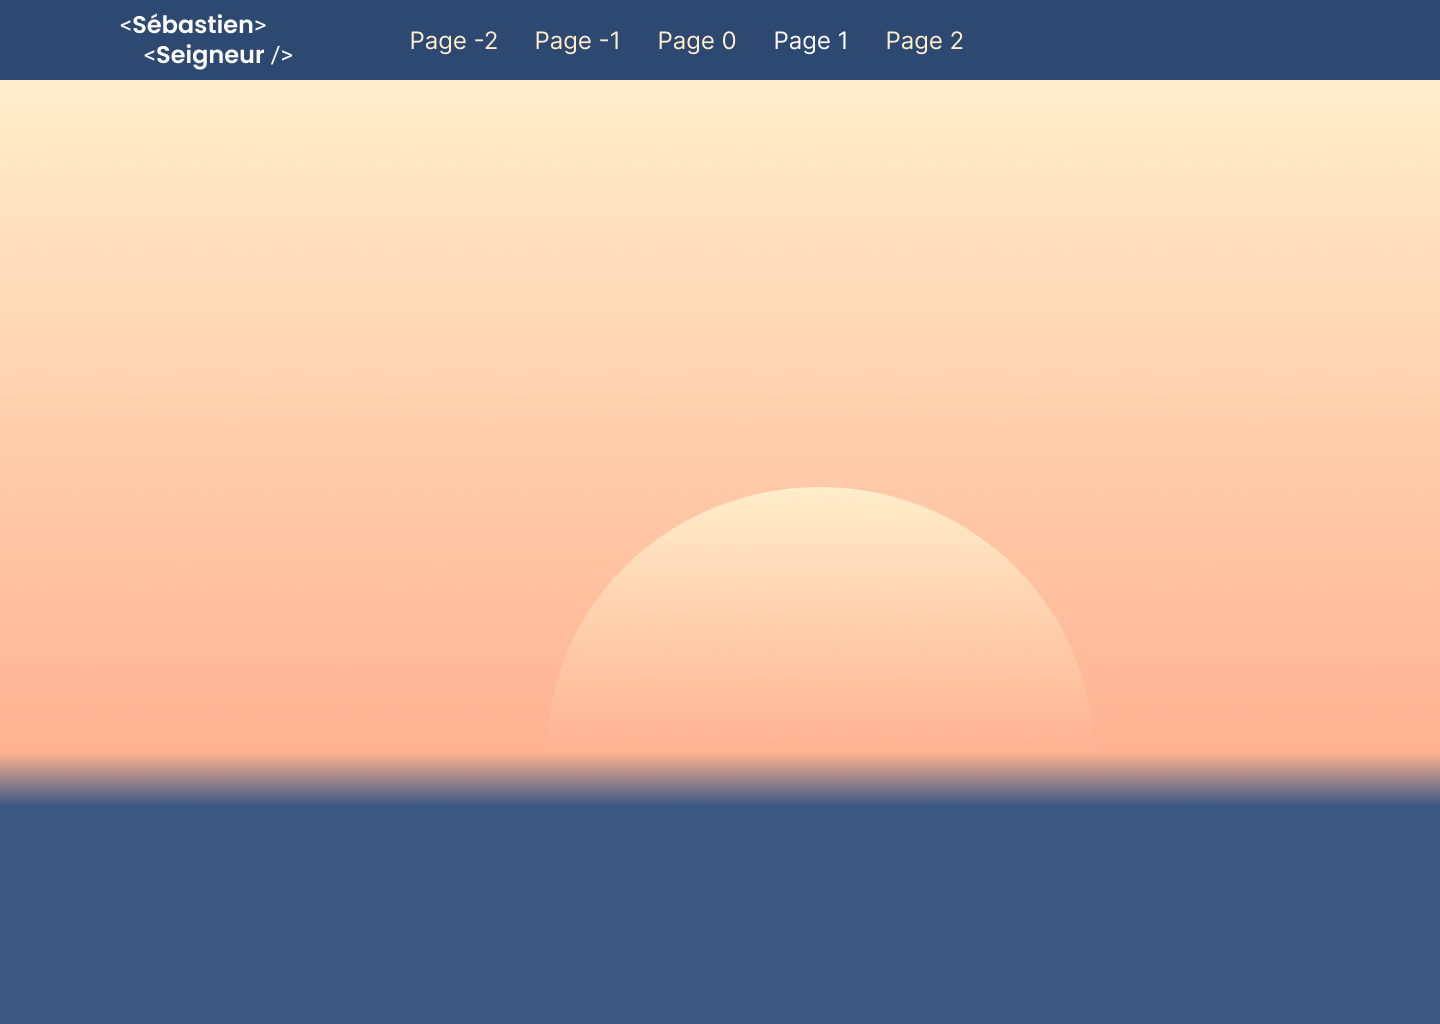
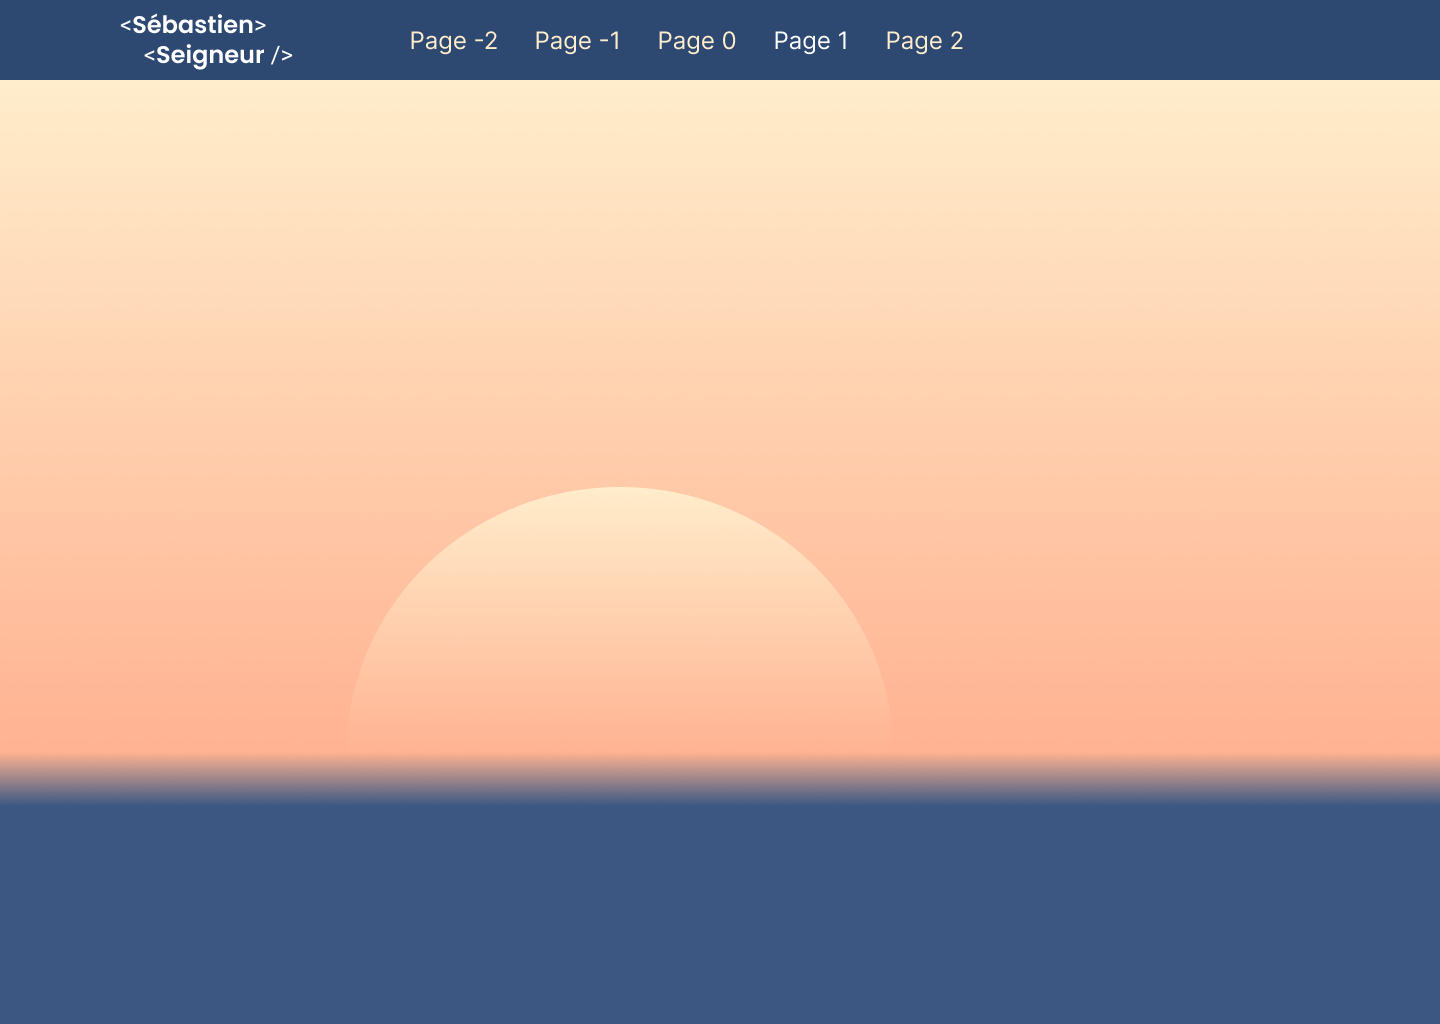
:speech_balloon: Presentation section on the homepage

Changed region(s): [[0.2812, 0.4688, 0.7188, 0.5625]]

diff --git a/src/pages/Index.vue b/src/pages/Index.vue
@@ -1,14 +1,16 @@
 <template>
-  <ContentLayout :pageSize="2">
+  <ContentLayout :page-size="2">
     <template #main-content>
       <div class="hero-section">
         <div class="hero-main container">
           <div>
             {{ /* Sébastien Seigneur */ }}
-            <NameTag tag-name="h1" font-size="50px"/>
-            <p class="subtitle">Développeur web</p>
+            <NameTag tag-name="h1" font-size="50px" />
+            <p class="subtitle">
+              Développeur web
+            </p>
           </div>
-          <img :src="'/img/code_thinking.svg'" class="code-thinking"/>
+          <img :src="'/img/code_thinking.svg'" class="code-thinking">
         </div>
         <div class="hero-arrow">
           <img
@@ -19,27 +21,125 @@
           >
         </div>
       </div>
-      <div class="presentation-section">
+      <div class="presentation-section content-container">
         <p>
-          Bonjour et bienvenue sur mon site web. Bien qu'il soit encore en développement, sachez que je travaille
-          activement dessus !
+          Bonjour et bienvenue sur mon site web ! Bien qu'il soit encore en développement, sachez que je travaille
+          activement dessus.
         </p>
-        <div class="example-gallery">
-          <div class="gallery-1">
-            <img src="/img/sun_demo_0.png">
+        <h2>Pourquoi ce site ?</h2>
+        <div>
+          <p>
+            J'ai décidé de créer un site personnel afin d'épater les recruteurs <span class="emoji">😎</span>.
+            <br><strong>Portfolio</strong>, <strong>CV en ligne</strong>, mais également une <strong>preuve de compétences</strong> en lui-même,
+            ce projet verra de nombreuses mises à jour prochainement ! Je pensais seulement publier le site une fois terminé,
+            mais même s'il est encore incomplet, j'ai pensé qu'il était dommage de ne pas pouvoir le montrer. Donc le voilà !
+            Gardez donc bien en tête que certains éléments du site sont encore manquants ou à l'état de prototype.
+          </p>
+        </div>
+        <h2>Quelles technos utilise t-il ?</h2>
+        <div>
+          <div class="tech-logos">
+            <img
+              :src="'/img/Vue.js_logo.svg'"
+              height="85"
+              width="auto"
+              alt="vue.js logo"
+            >
+            <img
+              :src="'/img/gridsome_logo.svg'"
+              height="85"
+              width="auto"
+              alt="Gridsome logo"
+            >
           </div>
-          <div class="gallery-2">
-            <img src="/img/sun_demo_-1.png">
-            <img src="/img/sun_demo_1.png">
+          <p>
+            Ayant une certaine aisance avec les technologies front-end telles que la librairie JavaScript <a href="https://vuejs.org/" target="_blank" rel="noopener">Vue.Js</a>,
+            j'ai privilégié l'utilisation de celle-ci pour le développement de ce projet. Bien que les robots de Google interprètent désormais le JavaScript,
+            j'ai pensé qu'il était plus sage de donner autre chose que du JS et de l'HTML vide aux robots indexeurs des différents moteurs de recherche.
+            C'est pourquoi j'ai opté pour le framework <a href="https://gridsome.org/" target="_blank" rel="noopener">Gridsome</a>.
+            Nuxt.Js étant trop lourd pour un simple portfolio, ce générateur de site statique convenait parfaitement.
+          </p>
+        </div>
+        <h2>Comment fonctionne t-il ?</h2>
+        <div>
+          <p>
+            Souhaitant faire plus qu'un site épuré et ennuyeux, celui-ci profite d'une fonctionnalité particulière...
+            Bien que purement cosmétique, vous remarquerez que l'arrière plan est composé de plusieurs dégradés, créant ainsi un <strong>coucher de soleil</strong>,
+            ciel et mer se confondant à l'horizon. Lors de la navigation, un <strong>effet de transition</strong> sur l'entièreté de la page ainsi qu'un décalage
+            de l'élément représentant le soleil suggèrent que <strong>l'utilisateur se déplace par rapport à l'horizon</strong>.
+          </p>
+          <p>
+            Pour ce faire, chaque page est attribuée d'un nombre indiquant sa position par rapport aux autres.
+            La direction de l'animation de transition change dynamiquement selon la position de la nouvelle page vers laquelle on navigue et la précédente.
+            De même pour l'emplacement du soleil, qui change selon cette même position, afin d'évoquer le déplacement sur l'horizon. Comme ci-dessous:
+          </p>
+          <div class="demo-gallery">
+            <div class="gallery-1">
+              <img
+                src="/img/sun_demo_0.png"
+                height="auto"
+                width="auto"
+                alt="démonstration de position 0 du soleil"
+              >
+            </div>
+            <div class="gallery-2">
+              <img
+                src="/img/sun_demo_1.png"
+                height="auto"
+                width="auto"
+                alt="démonstration de position 1 du soleil"
+              >
+              <img
+                src="/img/sun_demo_-1.png"
+                height="auto"
+                width="auto"
+                alt="démonstration de position -1 du soleil"
+              >
+            </div>
+            <div class="gallery-3">
+              <img
+                src="/img/sun_demo_2.png"
+                height="auto"
+                width="auto"
+                alt="démonstration de position 2 du soleil"
+              >
+              <img
+                src="/img/sun_demo_-2.png"
+                height="auto"
+                width="auto"
+                alt="démonstration de position -2 du soleil"
+              >
+            </div>
           </div>
-          <div class="gallery-3">
-            <img src="/img/sun_demo_-2.png">
-            <img src="/img/sun_demo_2.png">
-          </div>
+        </div>
+        <h2>Et après ?</h2>
+        <div>
+          <p>
+            Il reste encore du travail à effectuer sur le site, notamment des <strong>ajouts de contenu</strong> aux pages 'CV', 'Projets', 'A propos de moi',
+            un <strong>formulaire de contact</strong> pour la page du même nom mais aussi des fonctionnalités à développer comme un <strong>mode sombre</strong>.
+          </p>
+          <img
+            :src="'/img/darkmode_design.png'"
+            height="auto"
+            width="630"
+            alt="Tableau Trello du site"
+            class="centered-image"
+          >
+          <p>
+            Voici un petit aperçu du processus de développement du site, en utilisant la <strong>méthode Kanban</strong> avec
+            <a href="https://trello.com/home" target="_blank" rel="noopener">Trello</a> :
+          </p>
+          <img
+            :src="'/img/trello_board.png'"
+            height="auto"
+            width="1000"
+            alt="Design du mode sombre dans Figma"
+            class="centered-image"
+          >
         </div>
       </div>
     </template>
-    <template v-slot:sea-content>
+    <template #sea-content>
       <!--      <vue-glide-->
       <!--          class="glide-container container"-->
       <!--          :per-view="5"-->
@@ -73,13 +173,13 @@
 </template>
 
 <script>
-import { Glide, GlideSlide } from 'vue-glide-js'
+import {Glide, GlideSlide} from 'vue-glide-js'
 import NameTag from "../components/NameTag";
 
 export default {
   name: 'Index',
   metaInfo: {
-    title: 'Hello, world!',
+    title: 'Accueil',
   },
   components: {
     NameTag,
@@ -112,7 +212,7 @@ export default {
 
 .hero-section {
   position: relative;
-  height: calc(100vh - #{$header-size}); // 100vh minus the header size
+  height: calc(100vh - #{$header-size});
 
   .hero-main {
     position: absolute;
@@ -120,7 +220,6 @@ export default {
     bottom: 0;
     left: 0;
     right: 0;
-    margin: auto;
     display: flex;
     flex-wrap: wrap;
     align-items: center;
@@ -163,25 +262,22 @@ export default {
 }
 
 .presentation-section {
-  max-width: 1300px;
-  margin: auto;
-  padding: 20px;
-  background: #8080804f;
-  border: 1px solid gray;
-  border-radius: 10px;
-  backdrop-filter: blur(10px);
+  max-width: 1220px;
   scroll-margin-top: $header-size;
 
-  p {
-    text-align: center;
-    font-size: 18px;
-    line-height: 1.5;
-    color: white;
-    text-shadow: 0 0 5px black;
+  .tech-logos {
+    display: flex;
+    justify-content: center;
+    gap: 10px;
+    margin: 16px 0;
+
+    img {
+      filter: drop-shadow(0px 0px 3px #999999);
+    }
   }
 
-  .example-gallery {
-    margin: 20px 0;
+  .demo-gallery {
+    margin: 20px 0 40px;
     display: flex;
     flex-direction: column;
     gap: 20px;

diff --git a/src/App.vue b/src/App.vue
@@ -73,12 +73,75 @@ body {
 }
 
 .container {
-  max-width: 1140px !important;
+  max-width: 1140px;
+  box-sizing: border-box;
+  margin: auto;
   @media (max-width:576px) {
-    width: unset !important;
+    width: unset !important; // pourquoi cette CSS ? je ne sais plus
   }
 }
 
+.content-container {
+  @extend .container;
+  padding: 20px;
+  background: #80808069;
+  border: 4px solid #80808069;
+  border-radius: 4px;
+  backdrop-filter: blur(10px);
+
+  h2 {
+    text-align: center;
+    font-size: 22px;
+    font-weight: 500;
+    color: $blue;
+    margin: 16px 0;
+    text-shadow: 0 0 5px #{$sand + '70'};
+  }
+
+  p {
+    max-width: 800px;
+    margin: 16px auto;
+    text-align: justify;
+    font-size: 18px;
+    line-height: 1.5;
+    color: white;
+    text-shadow: 0 0 5px $blue;
+
+    span.emoji {
+      text-shadow: none;
+    }
+
+    strong {
+      color: $sand;
+      text-shadow: 0 0 5px #23344dff; // darker $blue
+    }
+
+    // inspired by https://codepen.io/CorporalMann/pen/bGRPyNB
+    a {
+      text-decoration: none;
+      color: inherit;
+      font-weight: 450;
+      background-image: linear-gradient($blue, $blue);
+      background-position: 0 100%;
+      background-repeat: no-repeat;
+      background-size: 100% 2px;
+      transition: background-size .16s;
+      position: relative;
+
+      &:hover {
+        background-size: 100% 100%;
+      }
+    }
+  }
+}
+
+.centered-image {
+  display: block;
+  margin: auto;
+  max-width: 100%;
+}
+
+/* START page transition styles */
 .fade-left-enter-active,
 .fade-left-leave-active {
   transition: all 1s ease;
@@ -110,5 +173,6 @@ body {
     transform: translateX(20px);
   }
 }
+/* END page transition styles */
 
 </style>
